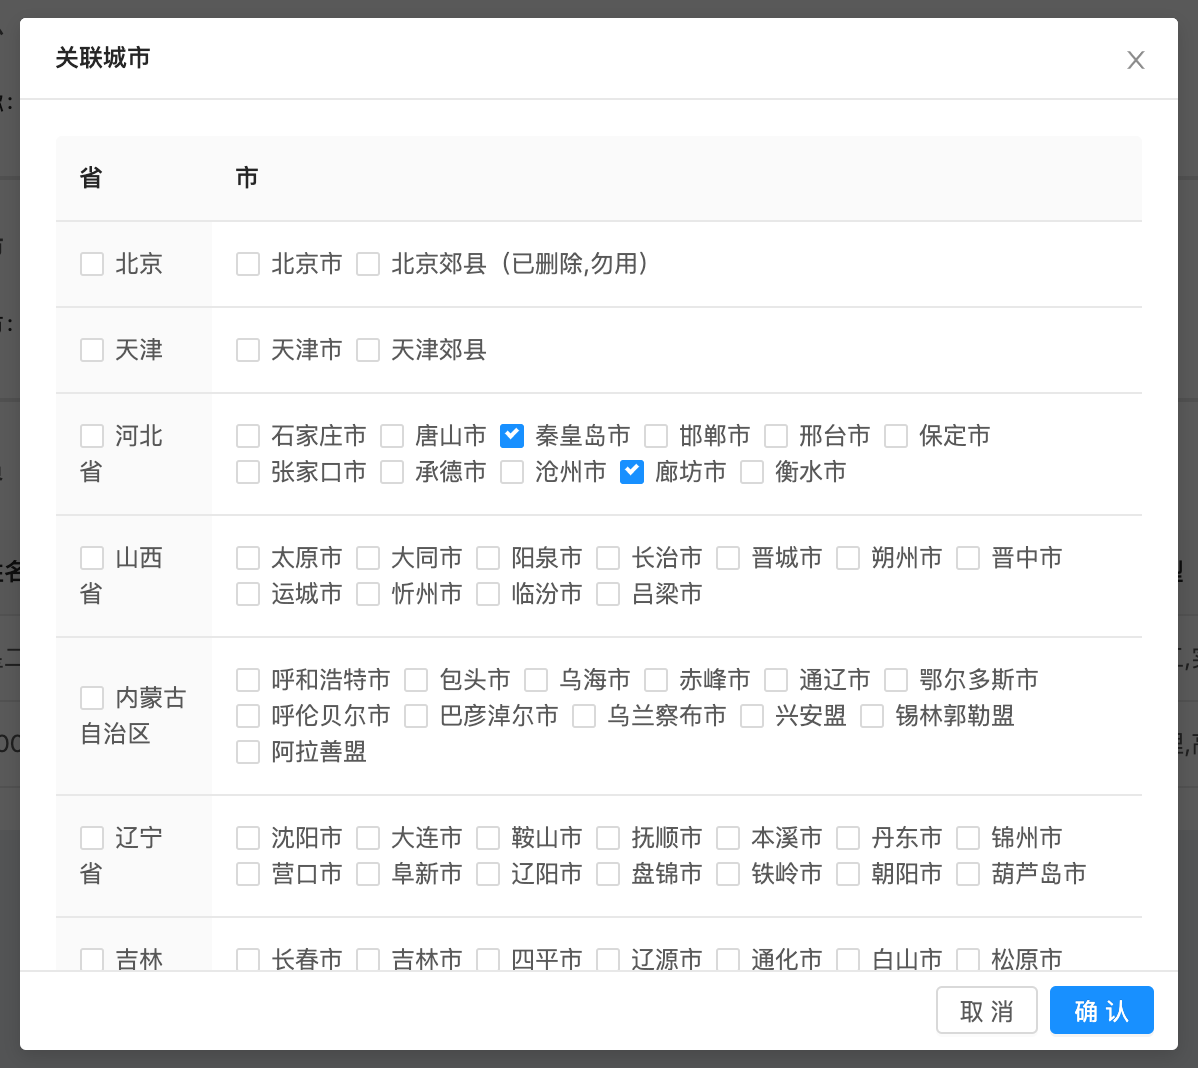
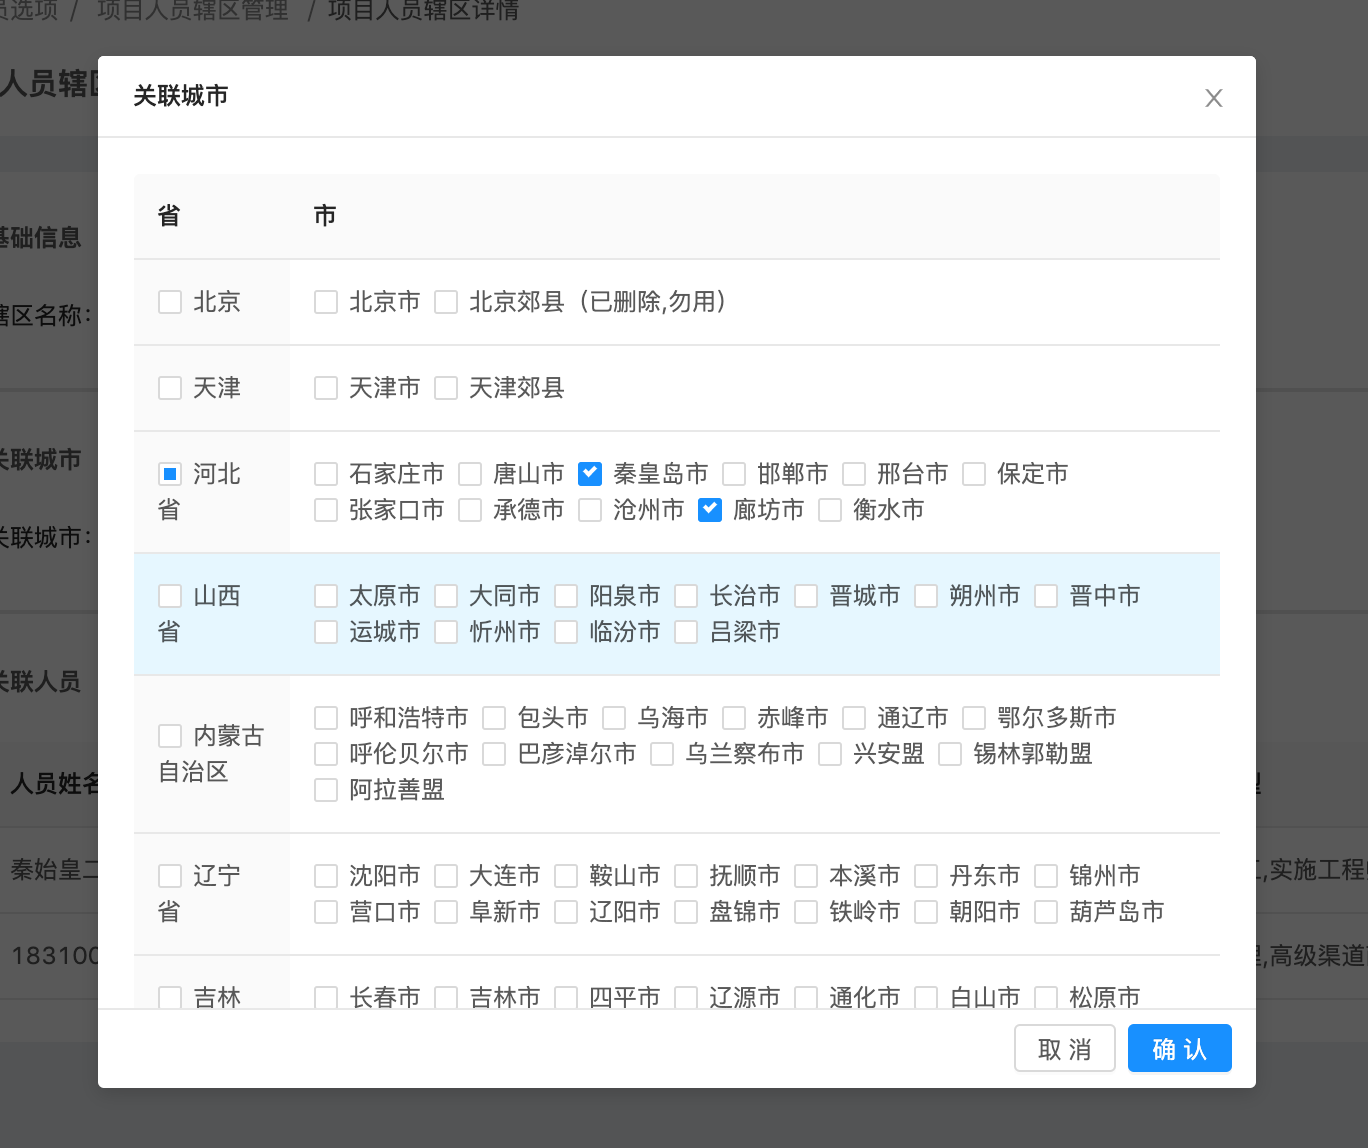
fix: select-city组件默认选中时没关联省的选中状态

diff --git a/packages/ant-design-ui/packages/select-city/index.vue b/packages/ant-design-ui/packages/select-city/index.vue
@@ -96,15 +96,24 @@ export default {
         if (res && res.code === 10000) {
           this.dataList = res.resultObject;
           for (let i = 0; i < this.dataList.length; i += 1) {
+            this.dataList[i].count = 0;
             for (let k = 0; k < this.dataList[i].children.length; k += 1) {
               if (this.initCity.includes(String(this.dataList[i].children[k].value))) {
                 this.$set(this.dataList[i].children[k], 'checked', true);
                 this.selectedList.push(this.dataList[i].children[k].value);
+                this.dataList[i].count += 1;
+              }
+              if(k ===this.dataList[i].children.length-1){
+                if (this.dataList[i].count > 0 && this.dataList[i].count !== this.dataList[i].children.length) {
+                  this.dataList[i].indeterminate = true;
+                } else if(this.dataList[i].count === this.dataList[i].children.length) {
+                  this.$set(this.dataList[i], 'checked', true);
+                }
               }
             }
           }
-          this.$nextTick(()=>{
-              this.loading = false;
+          this.$nextTick(() => {
+            this.loading = false;
           });
         }
       });
